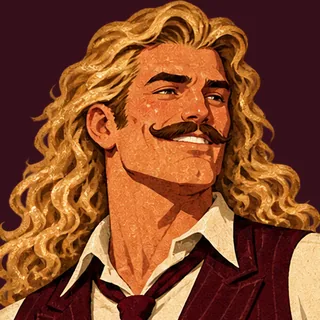
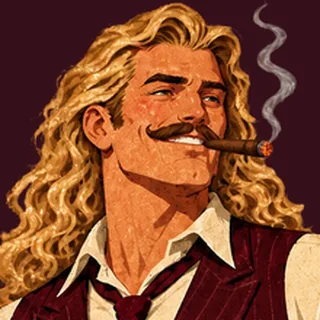
Character art: long hair for most women, cigar for curls, more diverse men
- lady, sleuth, singer, cigarette, heiress, owner redrawn with long hair
- curls gets a cigar
- bodyguard, detective, reporter, gambler redrawn: Samoan, South Asian,
  Middle Eastern, Latino; all young, with a mix of builds
- scripts/process-art.py: crop, haze cleanup (--isolate for blotchy
  backgrounds) and face crops

Claude-Session: https://claude.ai/code/session_011n5gPsd4ZZgTYeVzG34PYX

diff --git a/scripts/process-art.py b/scripts/process-art.py
@@ -1,0 +1,75 @@
+"""Turn a generated character PNG (transparent background) into the site's two images:
+  public/art/<key>.webp        the full figure, cropped to the drawing, 1100px tall
+  public/art/faces/<key>.webp  a 320px square head-and-shoulders crop on the velvet background
+  python3 scripts/process-art.py [--isolate] <key>=<path.png> [<key>=<path.png> ...]
+Some generations come back with a faint paper haze over the transparent area; alpha under ~48 is
+dropped and the soft band above it is stretched back to full, so edges stay smooth.
+A few come back with a heavy, blotchy haze. --isolate keeps only the solid figure (plus a thin
+soft edge) and clears everything else; don't use it on drawings with loose smoke wisps."""
+import os, sys
+import numpy as np
+from PIL import Image
+from scipy import ndimage
+
+ROOT = os.path.dirname(os.path.dirname(os.path.abspath(__file__)))
+ART = os.path.join(ROOT, "public", "art")
+BG = (54, 15, 26, 255)
+LO, HI = 48, 200
+
+
+def clean(im: Image.Image) -> Image.Image:
+    a = np.asarray(im.getchannel("A")).astype(np.float32)
+    a = np.clip((a - LO) * 255.0 / (HI - LO), 0, 255).astype(np.uint8)
+    out = im.copy()
+    out.putalpha(Image.fromarray(a))
+    return out
+
+
+def isolate(im: Image.Image, edge: int = 6) -> Image.Image:
+    """Keep the big solid shapes (the figure) and a thin band around them; clear the rest."""
+    a = np.asarray(im.getchannel("A"))
+    core = ndimage.binary_opening(a >= 230, iterations=2)
+    labels, n = ndimage.label(core)
+    if n == 0:
+        return im
+    sizes = ndimage.sum(core, labels, range(1, n + 1))
+    keep = np.isin(labels, 1 + np.flatnonzero(sizes >= 0.02 * sizes.max()))
+    near = ndimage.binary_dilation(keep, iterations=edge)
+    out = im.copy()
+    out.putalpha(Image.fromarray(np.where(near, a, 0).astype(np.uint8)))
+    return out
+
+
+def figure(im: Image.Image, iso: bool = False) -> Image.Image:
+    im = im.convert("RGBA")
+    if iso:
+        im = isolate(im)
+    im = clean(im)
+    im = im.crop(im.getchannel("A").getbbox())
+    h = 1100
+    return im.resize((round(im.width * h / im.height), h), Image.LANCZOS)
+
+
+def face(im: Image.Image) -> Image.Image:
+    """Square from the top of the figure, side = 0.2 x its height, centred on the head."""
+    H = im.height
+    side = round(0.2 * H)
+    a = np.asarray(im.getchannel("A"))
+    _, xs = np.nonzero(a[: int(0.15 * H)] > 128)
+    cx = int(np.median(xs))
+    pad = side * 2
+    bg = Image.new("RGBA", (im.width + 2 * pad, im.height + 2 * pad), BG)
+    bg.alpha_composite(im, (pad, pad))
+    x0 = cx - side // 2 + pad
+    return bg.crop((x0, pad, x0 + side, pad + side)).convert("RGB").resize((320, 320), Image.LANCZOS)
+
+
+if __name__ == "__main__":
+    args = sys.argv[1:]
+    iso = "--isolate" in args
+    for arg in (a for a in args if a != "--isolate"):
+        key, path = arg.split("=", 1)
+        fig = figure(Image.open(path), iso)
+        fig.save(os.path.join(ART, f"{key}.webp"), quality=84, method=6)
+        face(fig).save(os.path.join(ART, "faces", f"{key}.webp"), quality=82, method=6)
+        print(f"{key}: {fig.width}x{fig.height}")
